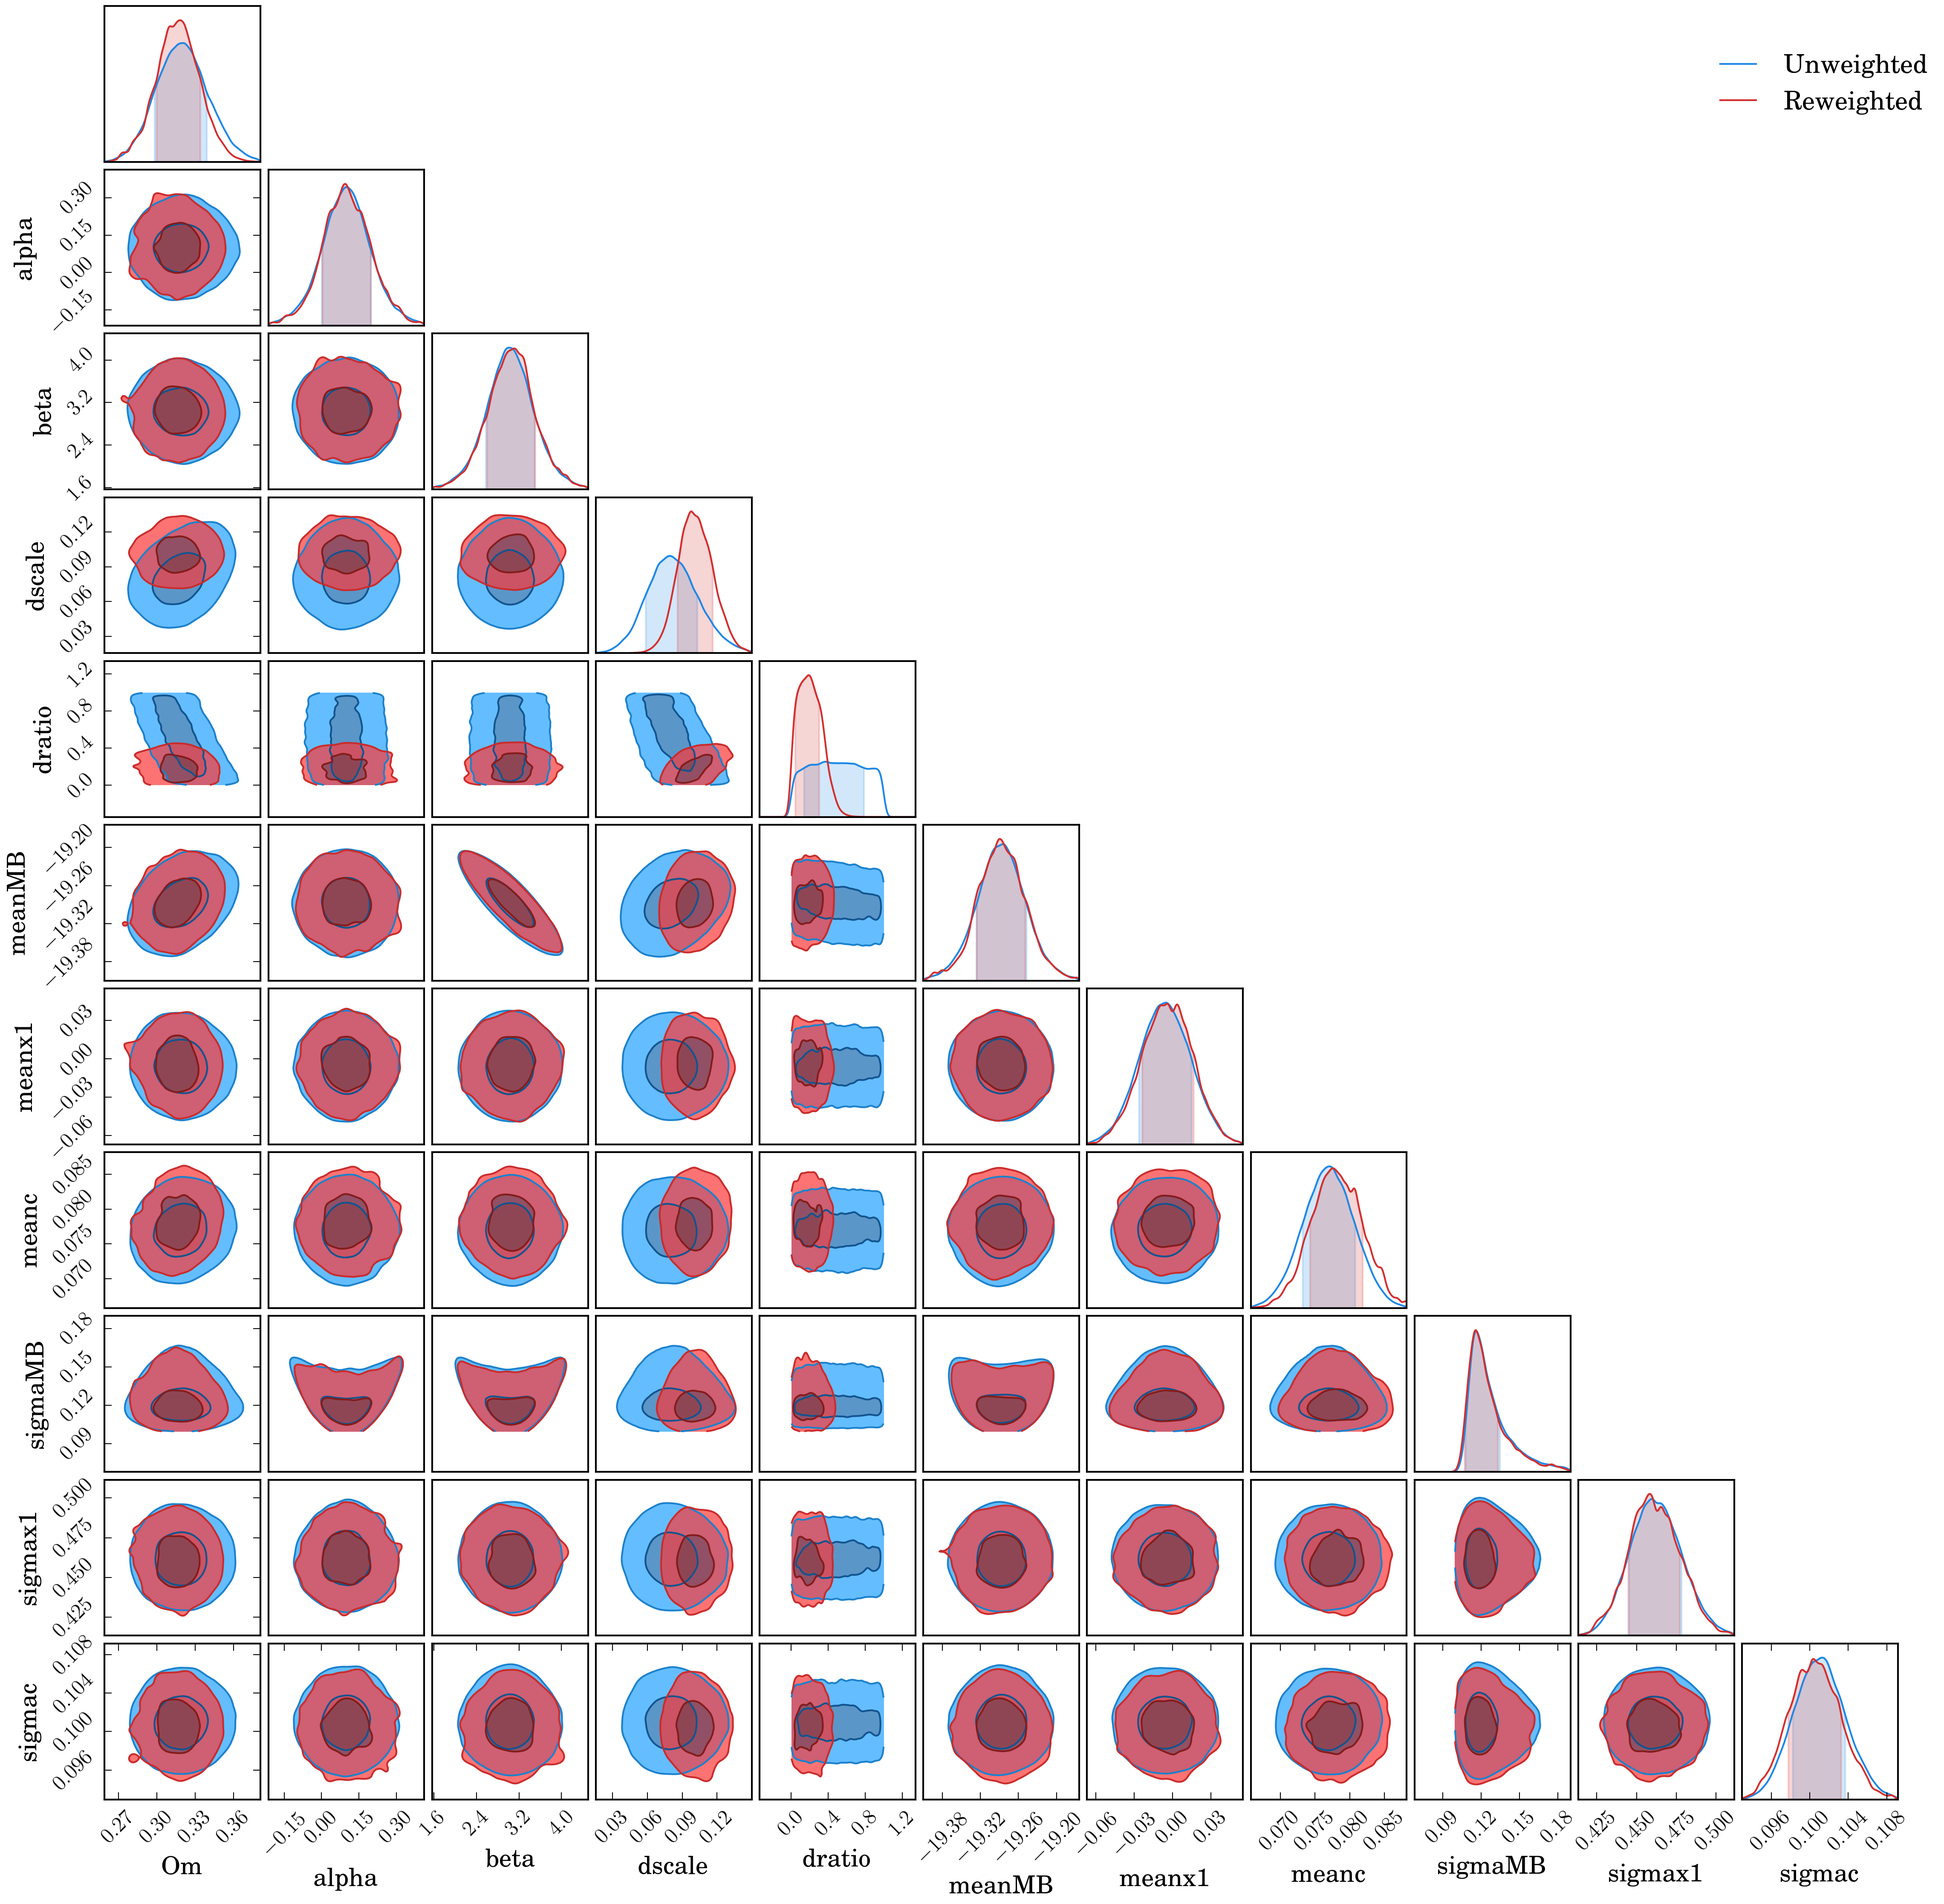
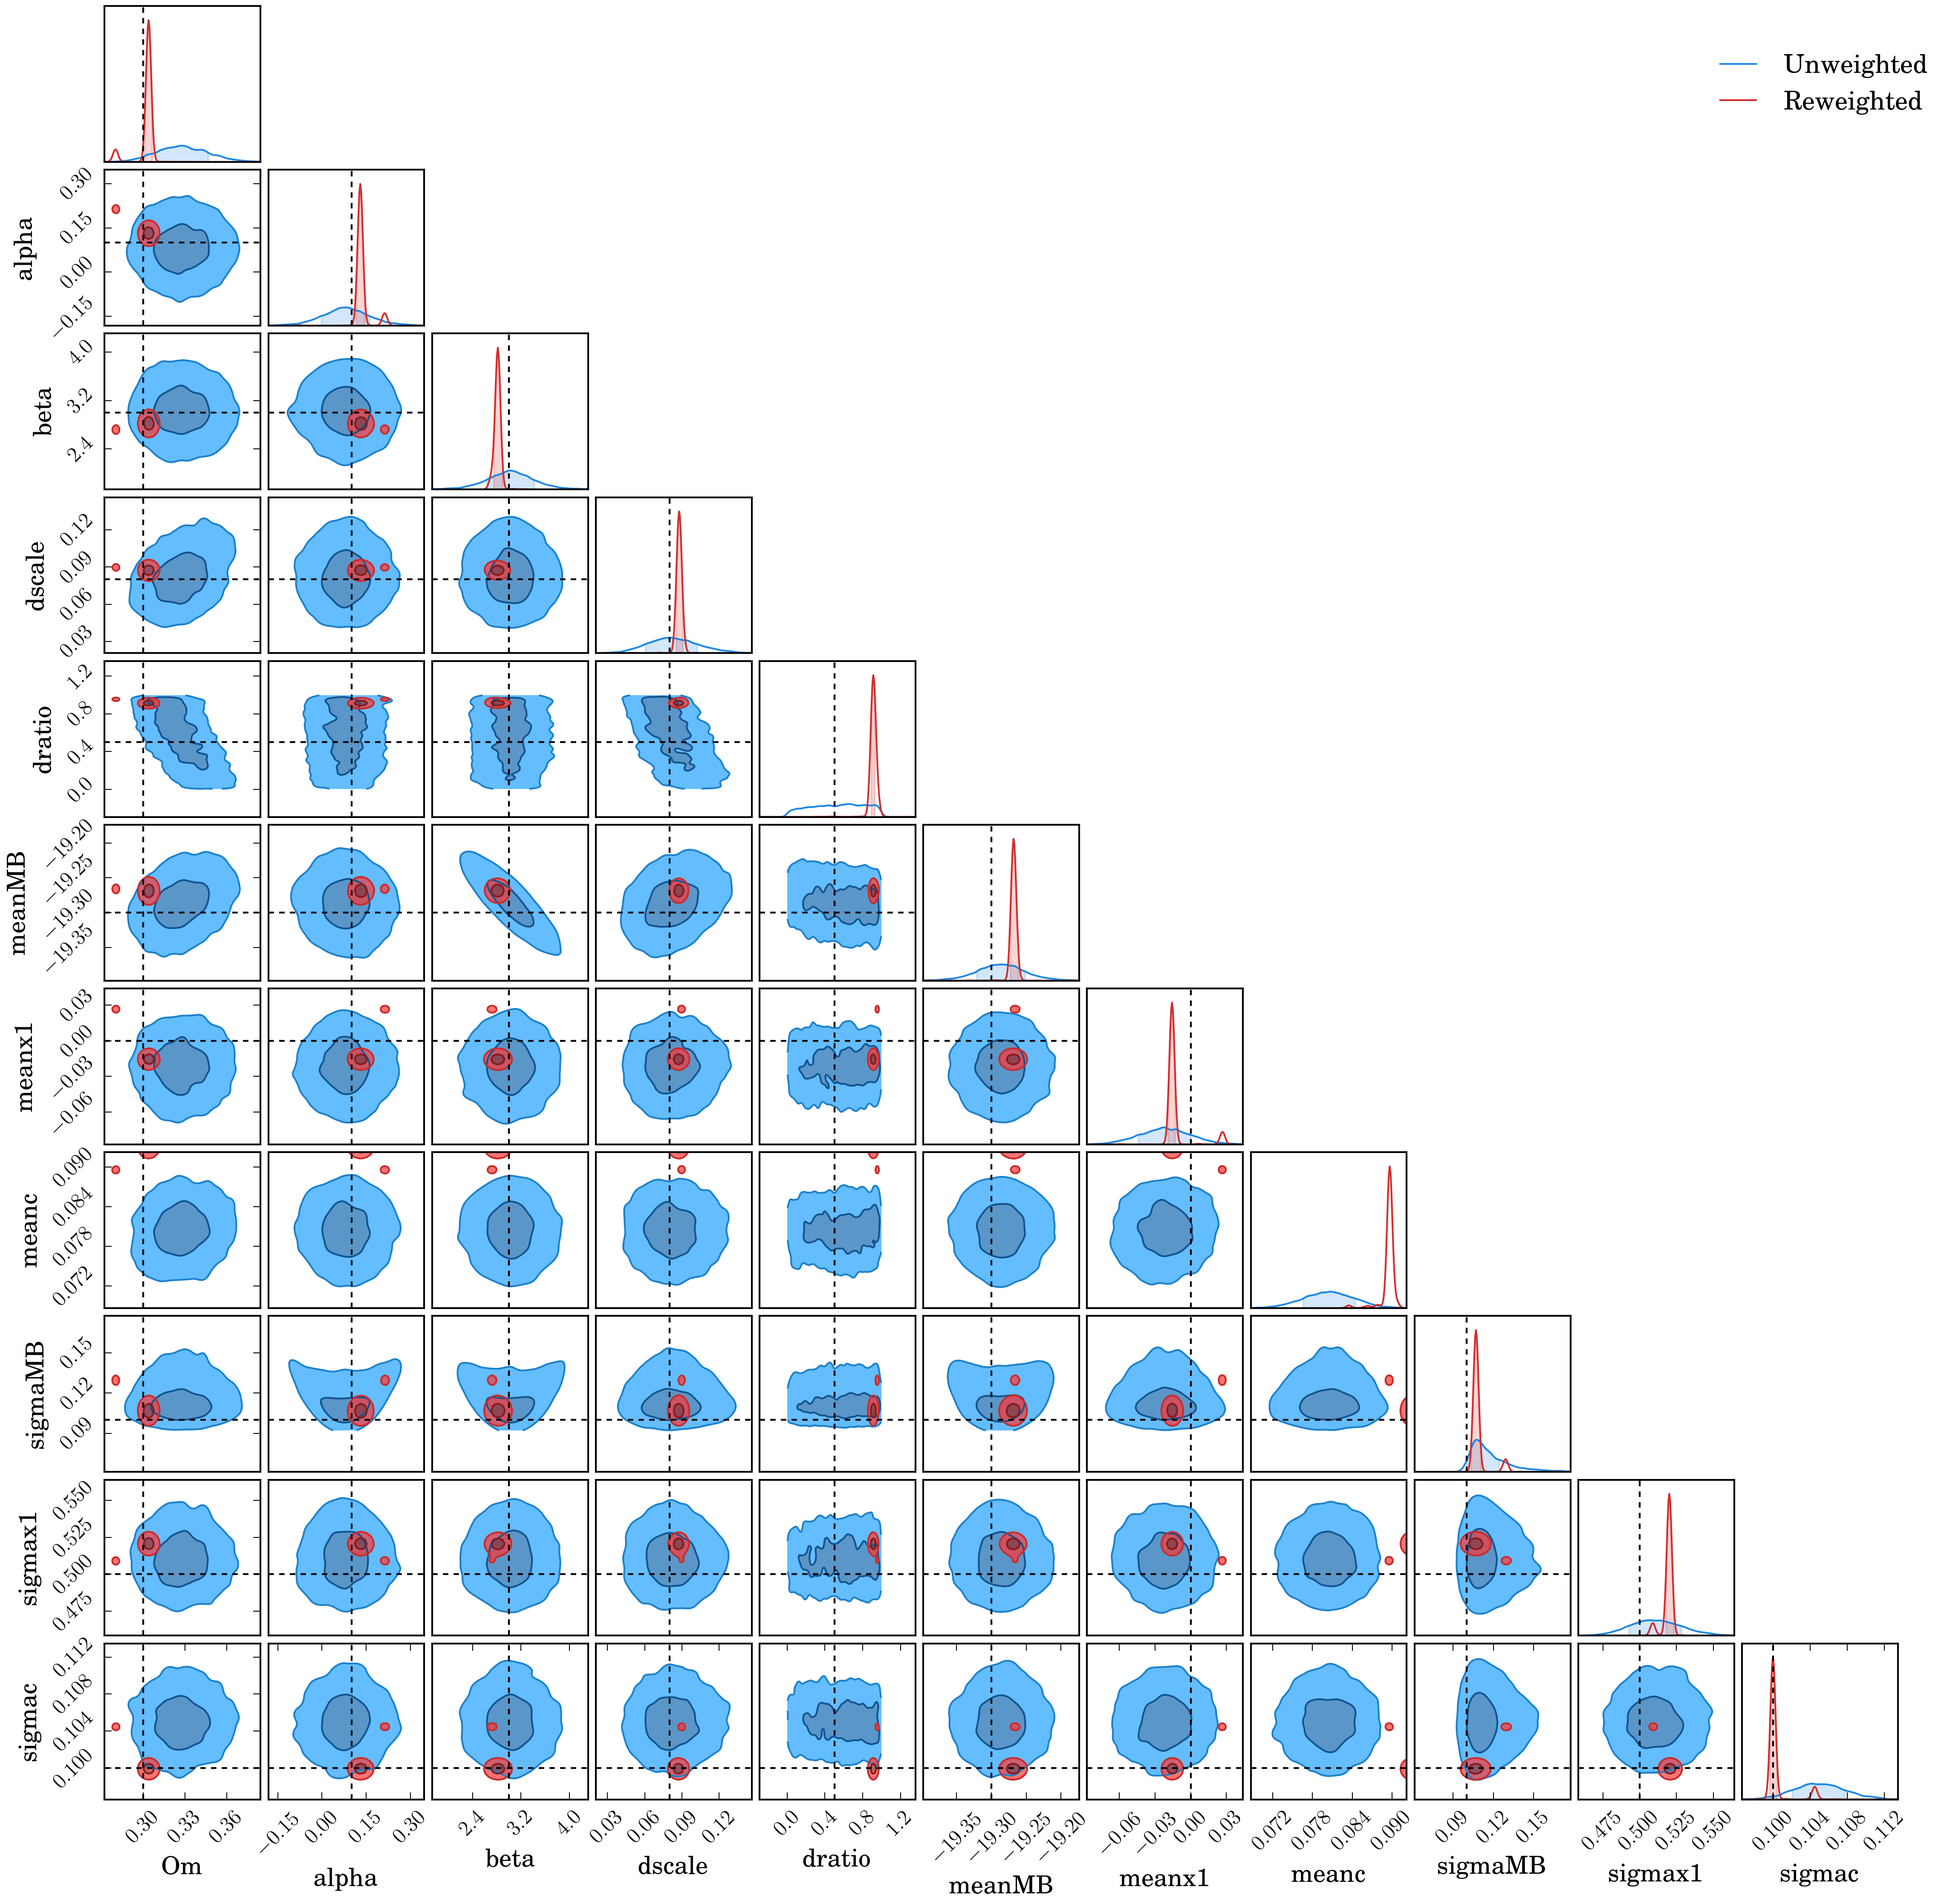
Sadness. Not working

diff --git a/dessn/models/d_simple_stan/calculate_bias.py b/dessn/models/d_simple_stan/calculate_bias.py
@@ -7,7 +7,7 @@ from astropy.cosmology import FlatwCDM
 from scipy.misc import logsumexp
 
 from dessn.models.d_simple_stan.load_stan import load_stan_from_folder
-from dessn.models.d_simple_stan.run_stan import get_analysis_data
+from dessn.models.d_simple_stan.run_stan import get_analysis_data, get_truths_labels_significance
 
 
 def calculate_bias(chain_dictionary, supernovae):
@@ -36,7 +36,8 @@ def calculate_bias(chain_dictionary, supernovae):
 
         dscale = chain_dictionary["dscale"][i]
         dratio = chain_dictionary["dratio"][i]
-        mass_correction = dscale * (1.9 * (1 - dratio) / redshifts + dratio)
+        redshift_pre_comp = 0.9 + np.power(10, 0.95 * redshifts)
+        mass_correction = dscale * (1.9 * (1 - dratio) / redshift_pre_comp + dratio)
         mabs = apparents - mus + chain_dictionary["alpha"][i] * stretches - chain_dictionary["beta"][i] * colours + mass_correction * masses
 
         mbx1cs = np.vstack((mabs, stretches, colours)).T
@@ -51,7 +52,7 @@ def calculate_bias(chain_dictionary, supernovae):
 
         chain_prob = multivariate_normal.logpdf(mbx1cs, chain_mean, chain_pop_cov)
         reweight = logsumexp(np.log(passed) + chain_prob - existing_prob)
-        weight.append(np.mean(reweight))
+        weight.append(reweight)
         print(weight[-1])
 
     return np.array(weight)
@@ -74,14 +75,18 @@ if __name__ == "__main__":
             chain_dictionary[key.replace("_", "")] = chain_dictionary[key]
             del chain_dictionary[key]
 
+    vals = get_truths_labels_significance()
+    truths = {k[0].replace("_", ""): k[1] for k in vals if not isinstance(k[2], list)}
+
     c = ChainConsumer()
     c.add_chain(chain_dictionary, name="Unweighted")
     n_sne = get_analysis_data()["n_sne"]
-    logw = n_sne * np.log(weights)
+    logw = n_sne * weights
     print(logw.min(), logw.max())
     logw -= logw.min() + 5
     print(logw.min(), logw.max())
     print(weights.min(), weights.max(), weights.mean())
     weights = 1 / np.exp(logw)
     c.add_chain(chain_dictionary, weights=weights, name="Reweighted")
-    c.plot(filename="output/comparison.png")
+    # c.add_chain(chain_dictionary, name="Reweighted")
+    c.plot(filename="output/comparison.png", truth=truths)

diff --git a/dessn/models/d_simple_stan/run_stan_complete.py b/dessn/models/d_simple_stan/run_stan_complete.py
@@ -46,7 +46,7 @@ def get_pickle_data(n_sne):
     }
 
 
-def get_simulation_data(n=5000):
+def get_simulation_data(n=7000):
     pickle_file = "output/supernovae2.pickle"
     with open(pickle_file, 'rb') as pkl:
         supernovae = pickle.load(pkl)
@@ -261,7 +261,7 @@ if __name__ == "__main__":
             # Assuming its my laptop vbox
             import pystan
             sm = pystan.StanModel(file="model_complete.stan", model_name="Cosmology")
-            fit = sm.sampling(data=data, iter=4000, warmup=2000, chains=4, init=init_fn)
+            fit = sm.sampling(data=data, iter=4000, warmup=3000, chains=4, init=init_fn)
             # Dump relevant chains to file
             with open(t, 'wb') as output:
                 dictionary = fit.extract(pars=params)
